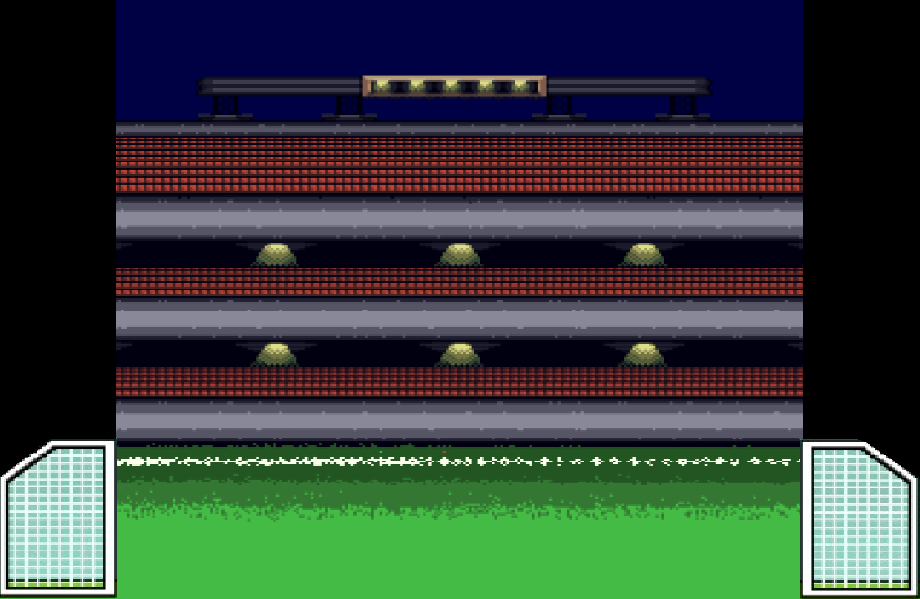
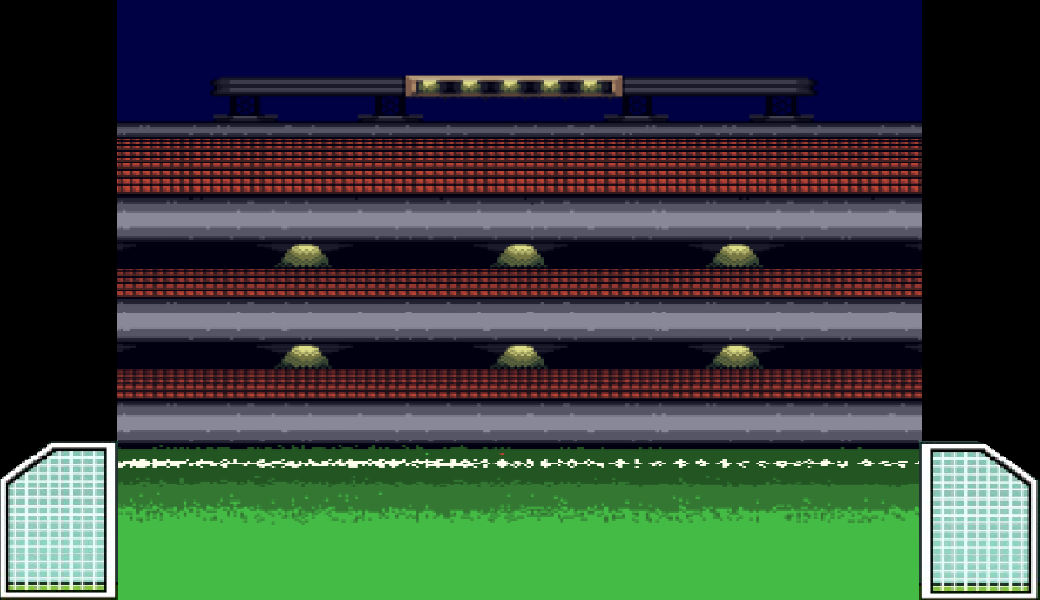
todo con nueva escala

Changed region(s): [[0.0, 0.3907, 1.0, 1.0], [0.0913, 0.0, 0.913, 0.4207]]

diff --git a/src/client/world.cpp b/src/client/world.cpp
@@ -32,8 +32,17 @@ void World::draw(std::vector<Texture>& car_textures, Texture& ball, Texture& cou
 
     std::lock_guard<std::mutex> lock(mutex);
     int flip;
+    std::cout << renderer.GetOutputWidth() << " " << renderer.GetOutputHeight() << std::endl;
     renderer.Copy(court,NullOpt,Rect(0,0,renderer.GetOutputWidth(),renderer.GetOutputHeight()));
+
     for(size_t i = 0; i < car_textures.size(); i++){
+        renderer.Copy(car_textures[i],
+                    Rect(0,50*i,120,50),
+                    Rect(20*this->cars[i].x_position - 30,(-20)*this->cars[i].y_position - 15,60,30)
+                    ,this->cars[i].angle,
+                    NullOpt,
+                    flip = (this->cars[i].pointing_right == true) ? SDL_FLIP_NONE : SDL_FLIP_HORIZONTAL);
+/*
         renderer.Copy(car_textures[i],
                     Rect(0,50*i,120,50),
                     Rect(renderer.GetOutputWidth()/2 + 20*this->cars[i].x_position - 30,
@@ -44,12 +53,14 @@ void World::draw(std::vector<Texture>& car_textures, Texture& ball, Texture& cou
                 NullOpt,
                 flip = (this->cars[i].pointing_right == true) ? SDL_FLIP_NONE : SDL_FLIP_HORIZONTAL
                 );
-    }
-    renderer.Copy(ball, 
+                renderer.Copy(ball, 
                 NullOpt, 
                 Rect(renderer.GetOutputWidth()/2 + 20*this->ball.x_position - 20,
                     renderer.GetOutputHeight() + (-20)*this->ball.y_position - 20, 
                     40, 40));
+*/
+    }
+    renderer.Copy(ball, NullOpt, Rect(20*this->ball.x_position -20,(-20)*this->ball.y_position-20, 40, 40));
 }
 
 

diff --git a/src/client/client_interface.cpp b/src/client/client_interface.cpp
@@ -24,7 +24,7 @@ Client_interface::Client_interface():
             window("Rocket League 2D",
                     SDL_WINDOWPOS_UNDEFINED,
                     SDL_WINDOWPOS_UNDEFINED,
-                    920, 600,
+                    1040, 600,
                     SDL_WINDOW_RESIZABLE),
                     //SDL_WINDOW_RESIZABLE),
             renderer(window, -1, SDL_RENDERER_ACCELERATED){
